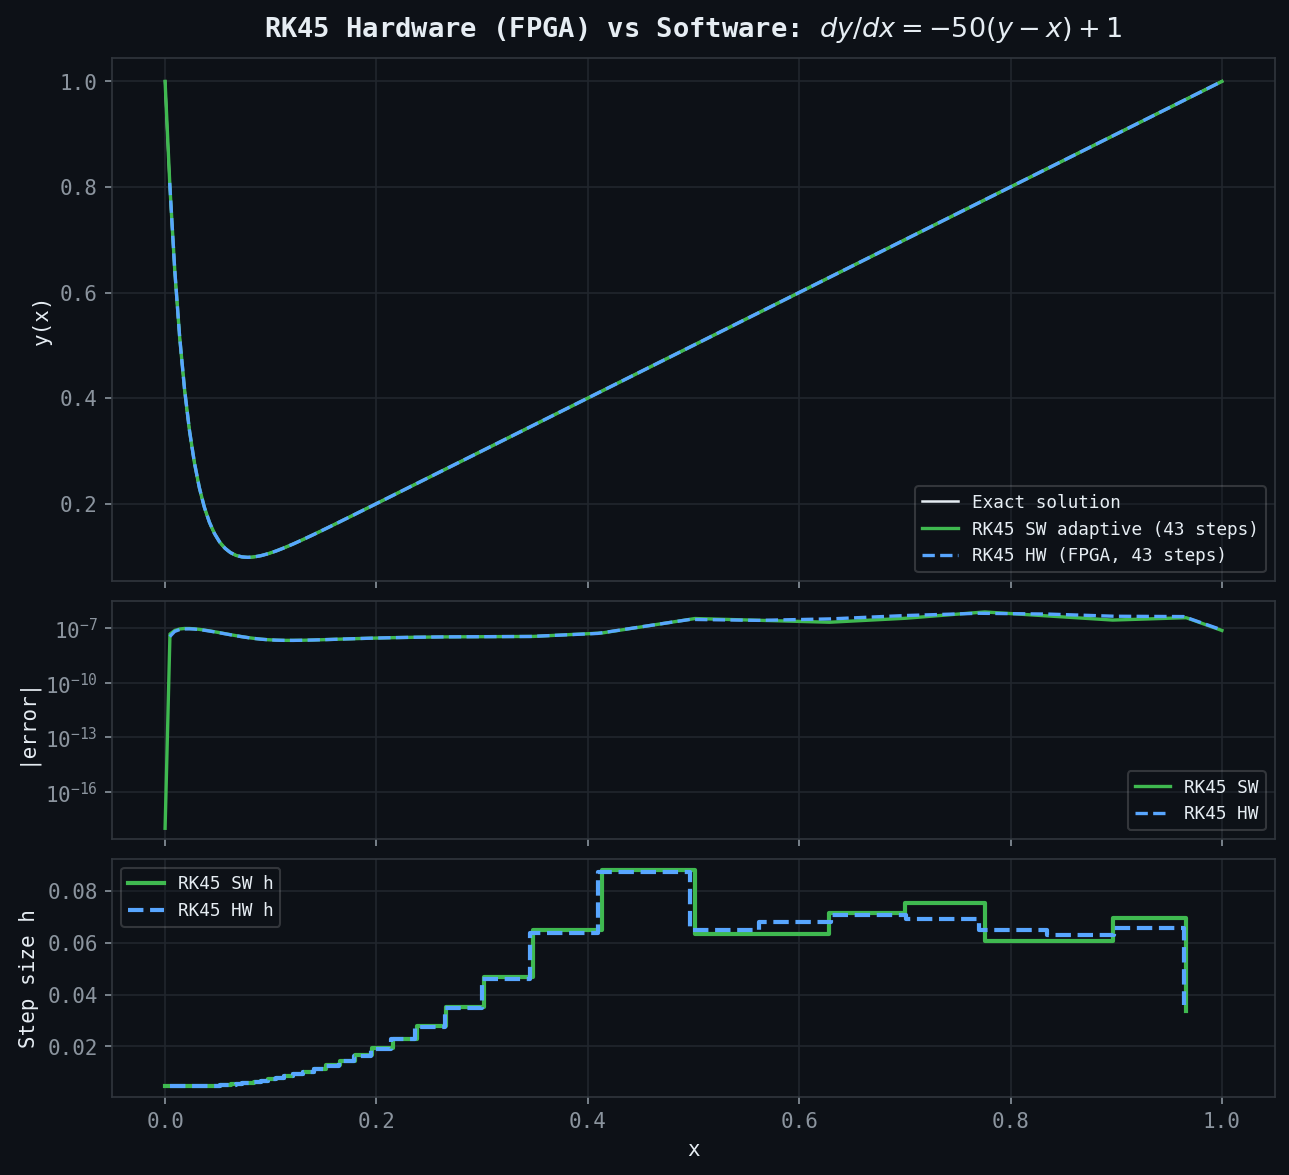
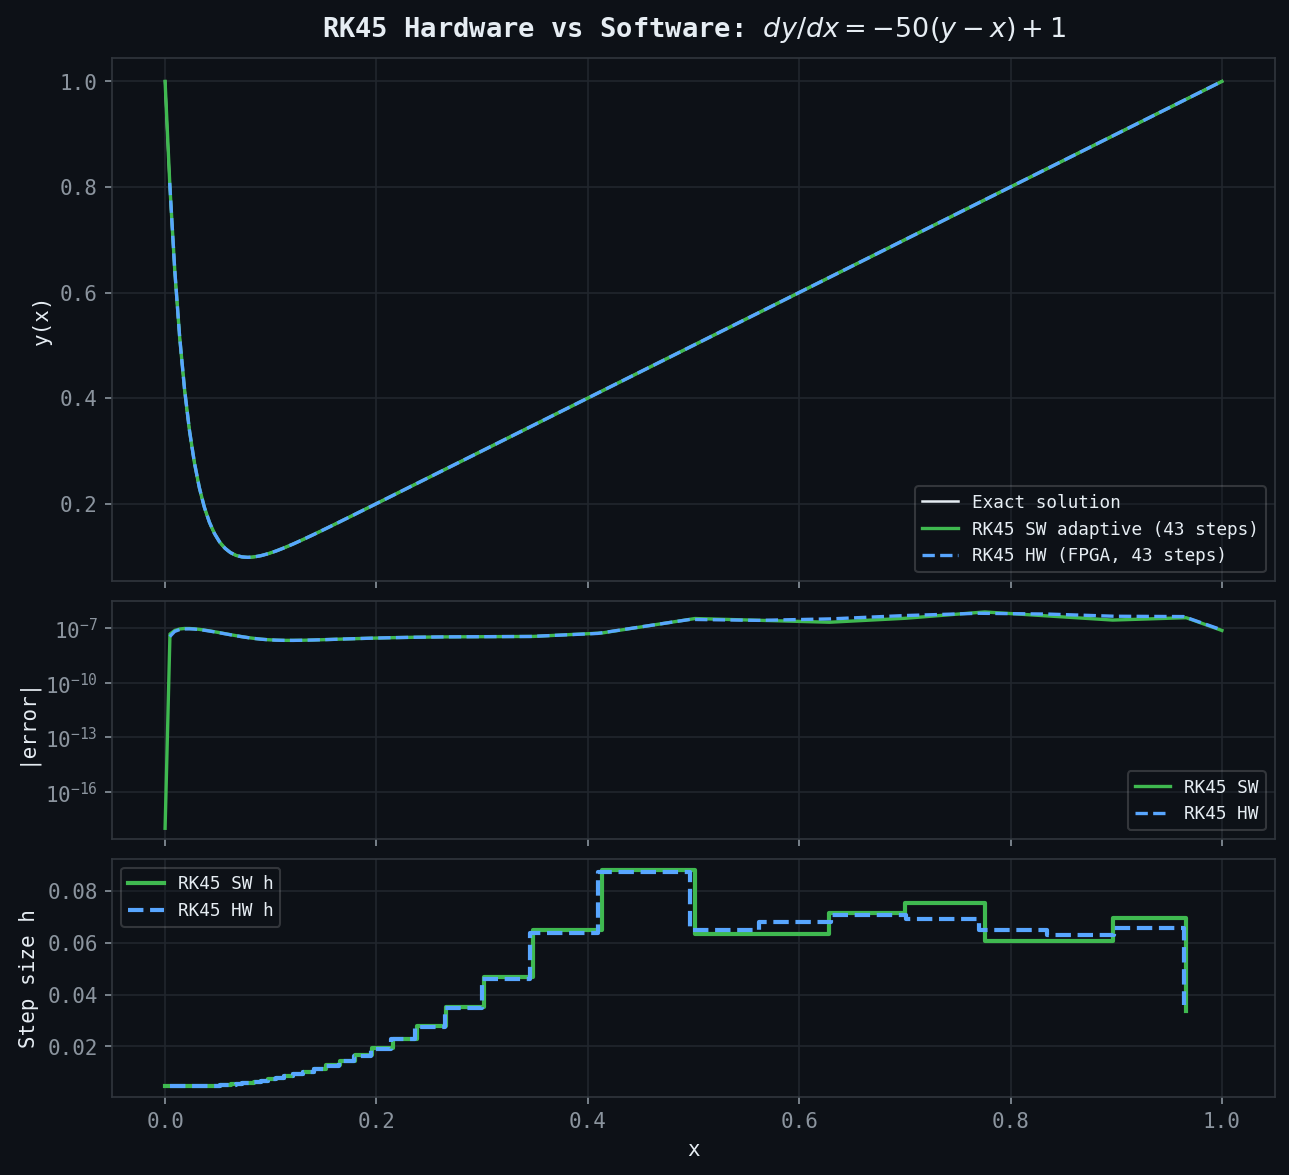
fixes for synthesis

Changed region(s): [[0.1862, 0.0, 0.8689, 0.0306]]

diff --git a/scripts/python/generate_hw_sw_comparison.py b/scripts/python/generate_hw_sw_comparison.py
@@ -106,7 +106,7 @@ ax1.set_ylabel("y(x)")
 ax1.legend(framealpha=0.2, fontsize=8.5)
 ax1.grid(True)
 ax1.set_title(
-    r"RK45 Hardware (FPGA) vs Software: $dy/dx = -50(y - x) + 1$",
+    r"RK45 Hardware vs Software: $dy/dx = -50(y - x) + 1$",
     fontsize=13, fontweight="bold", pad=10
 )
 
